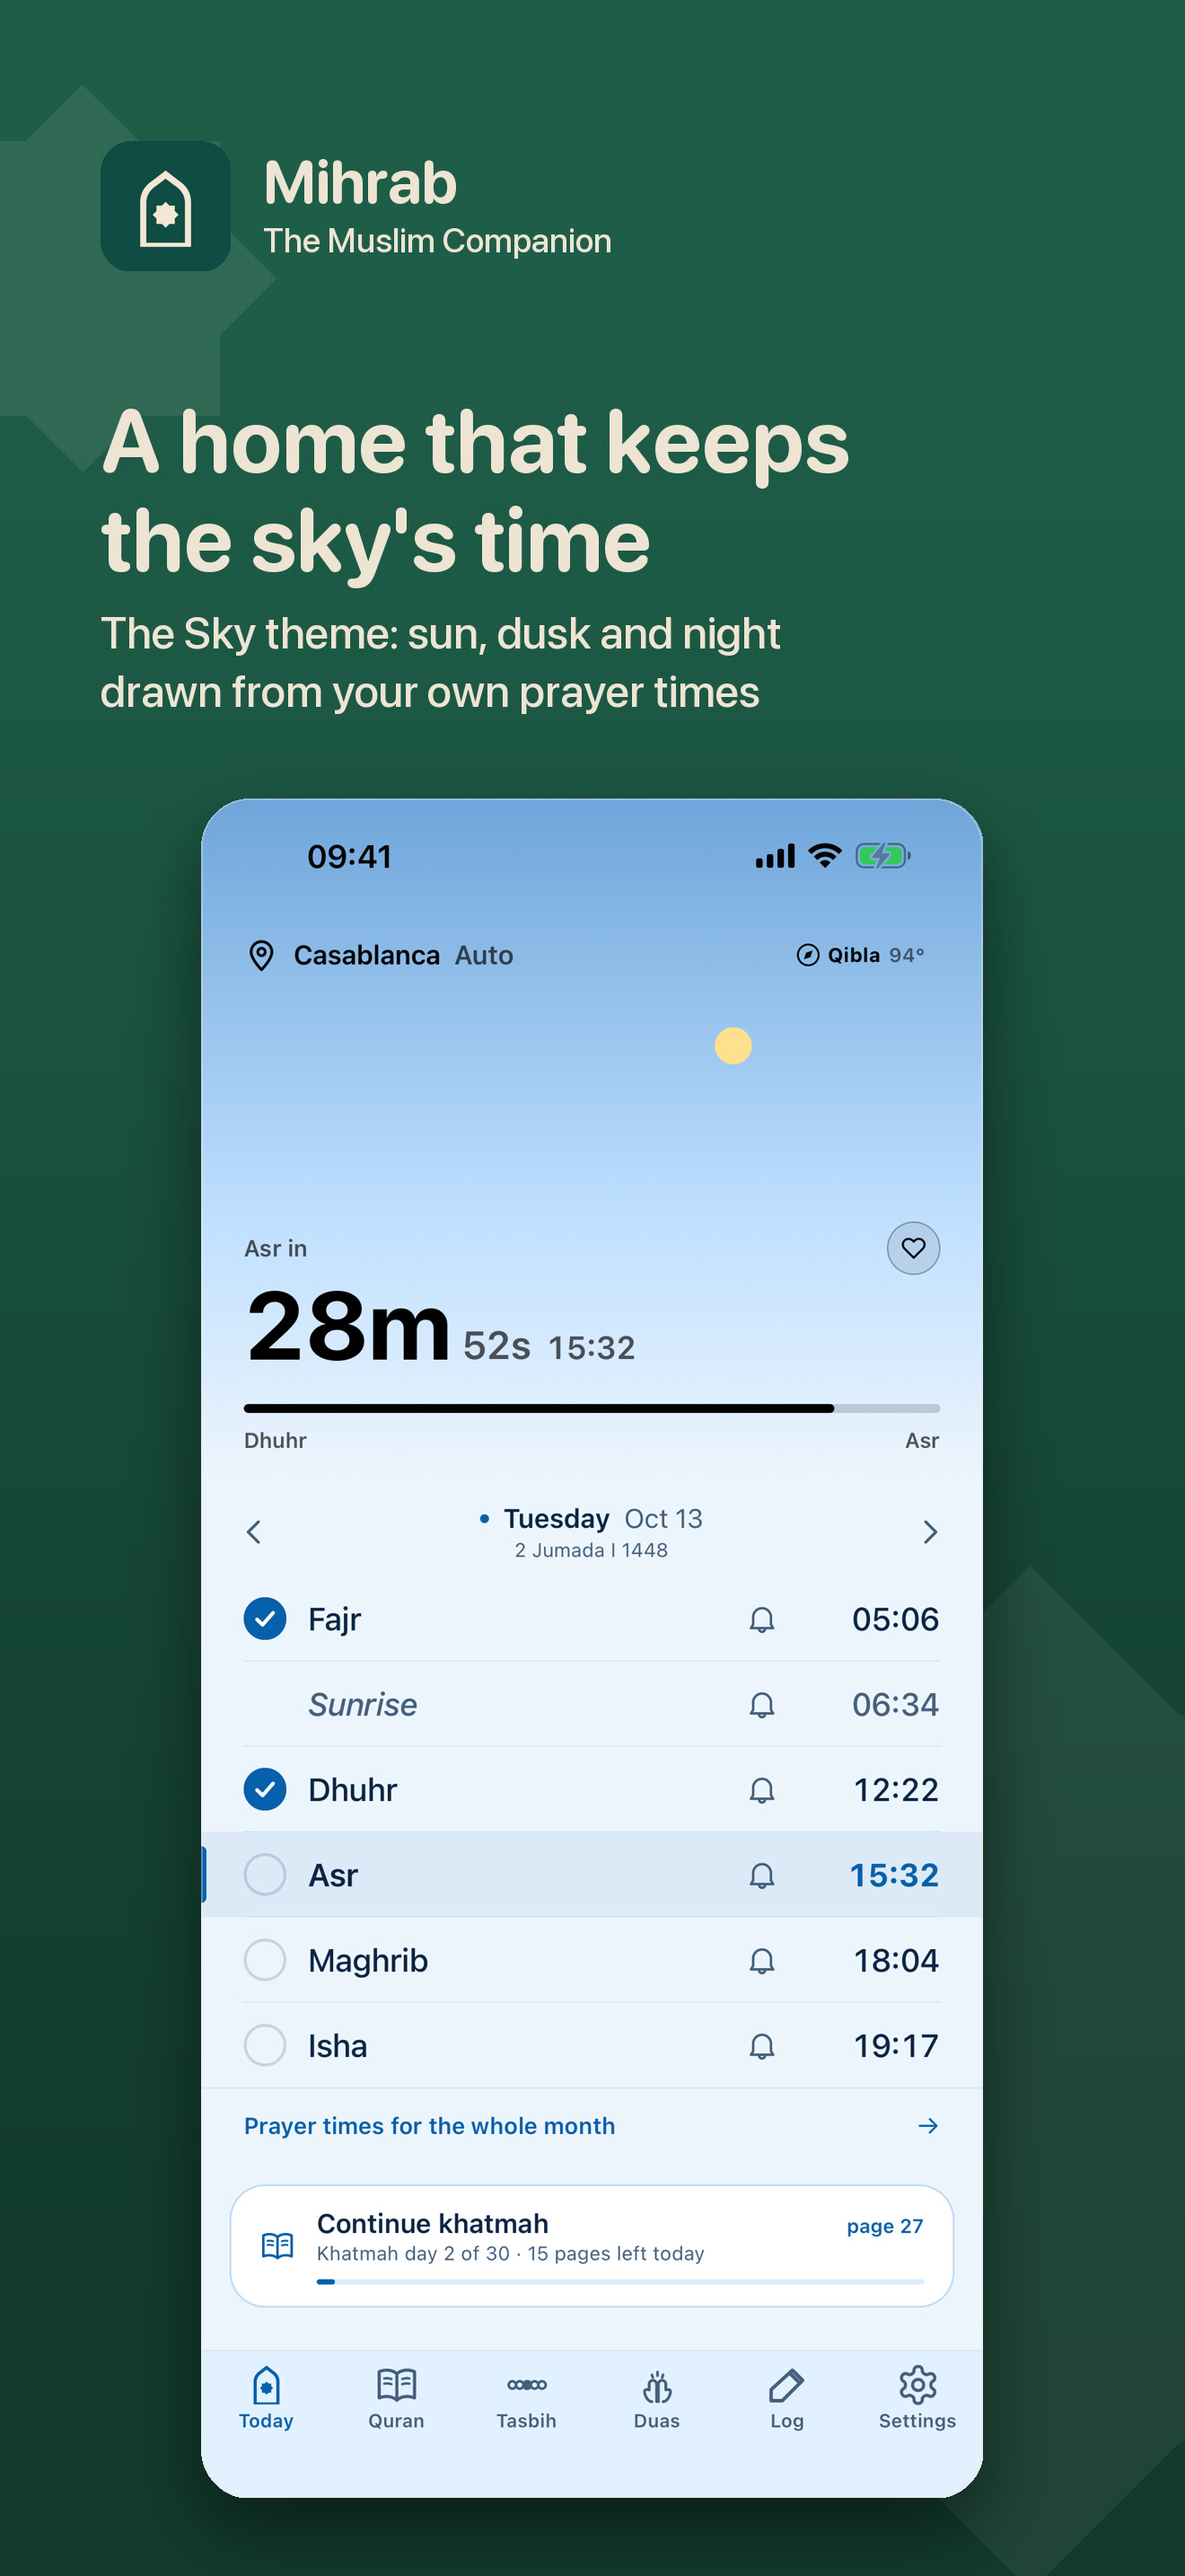
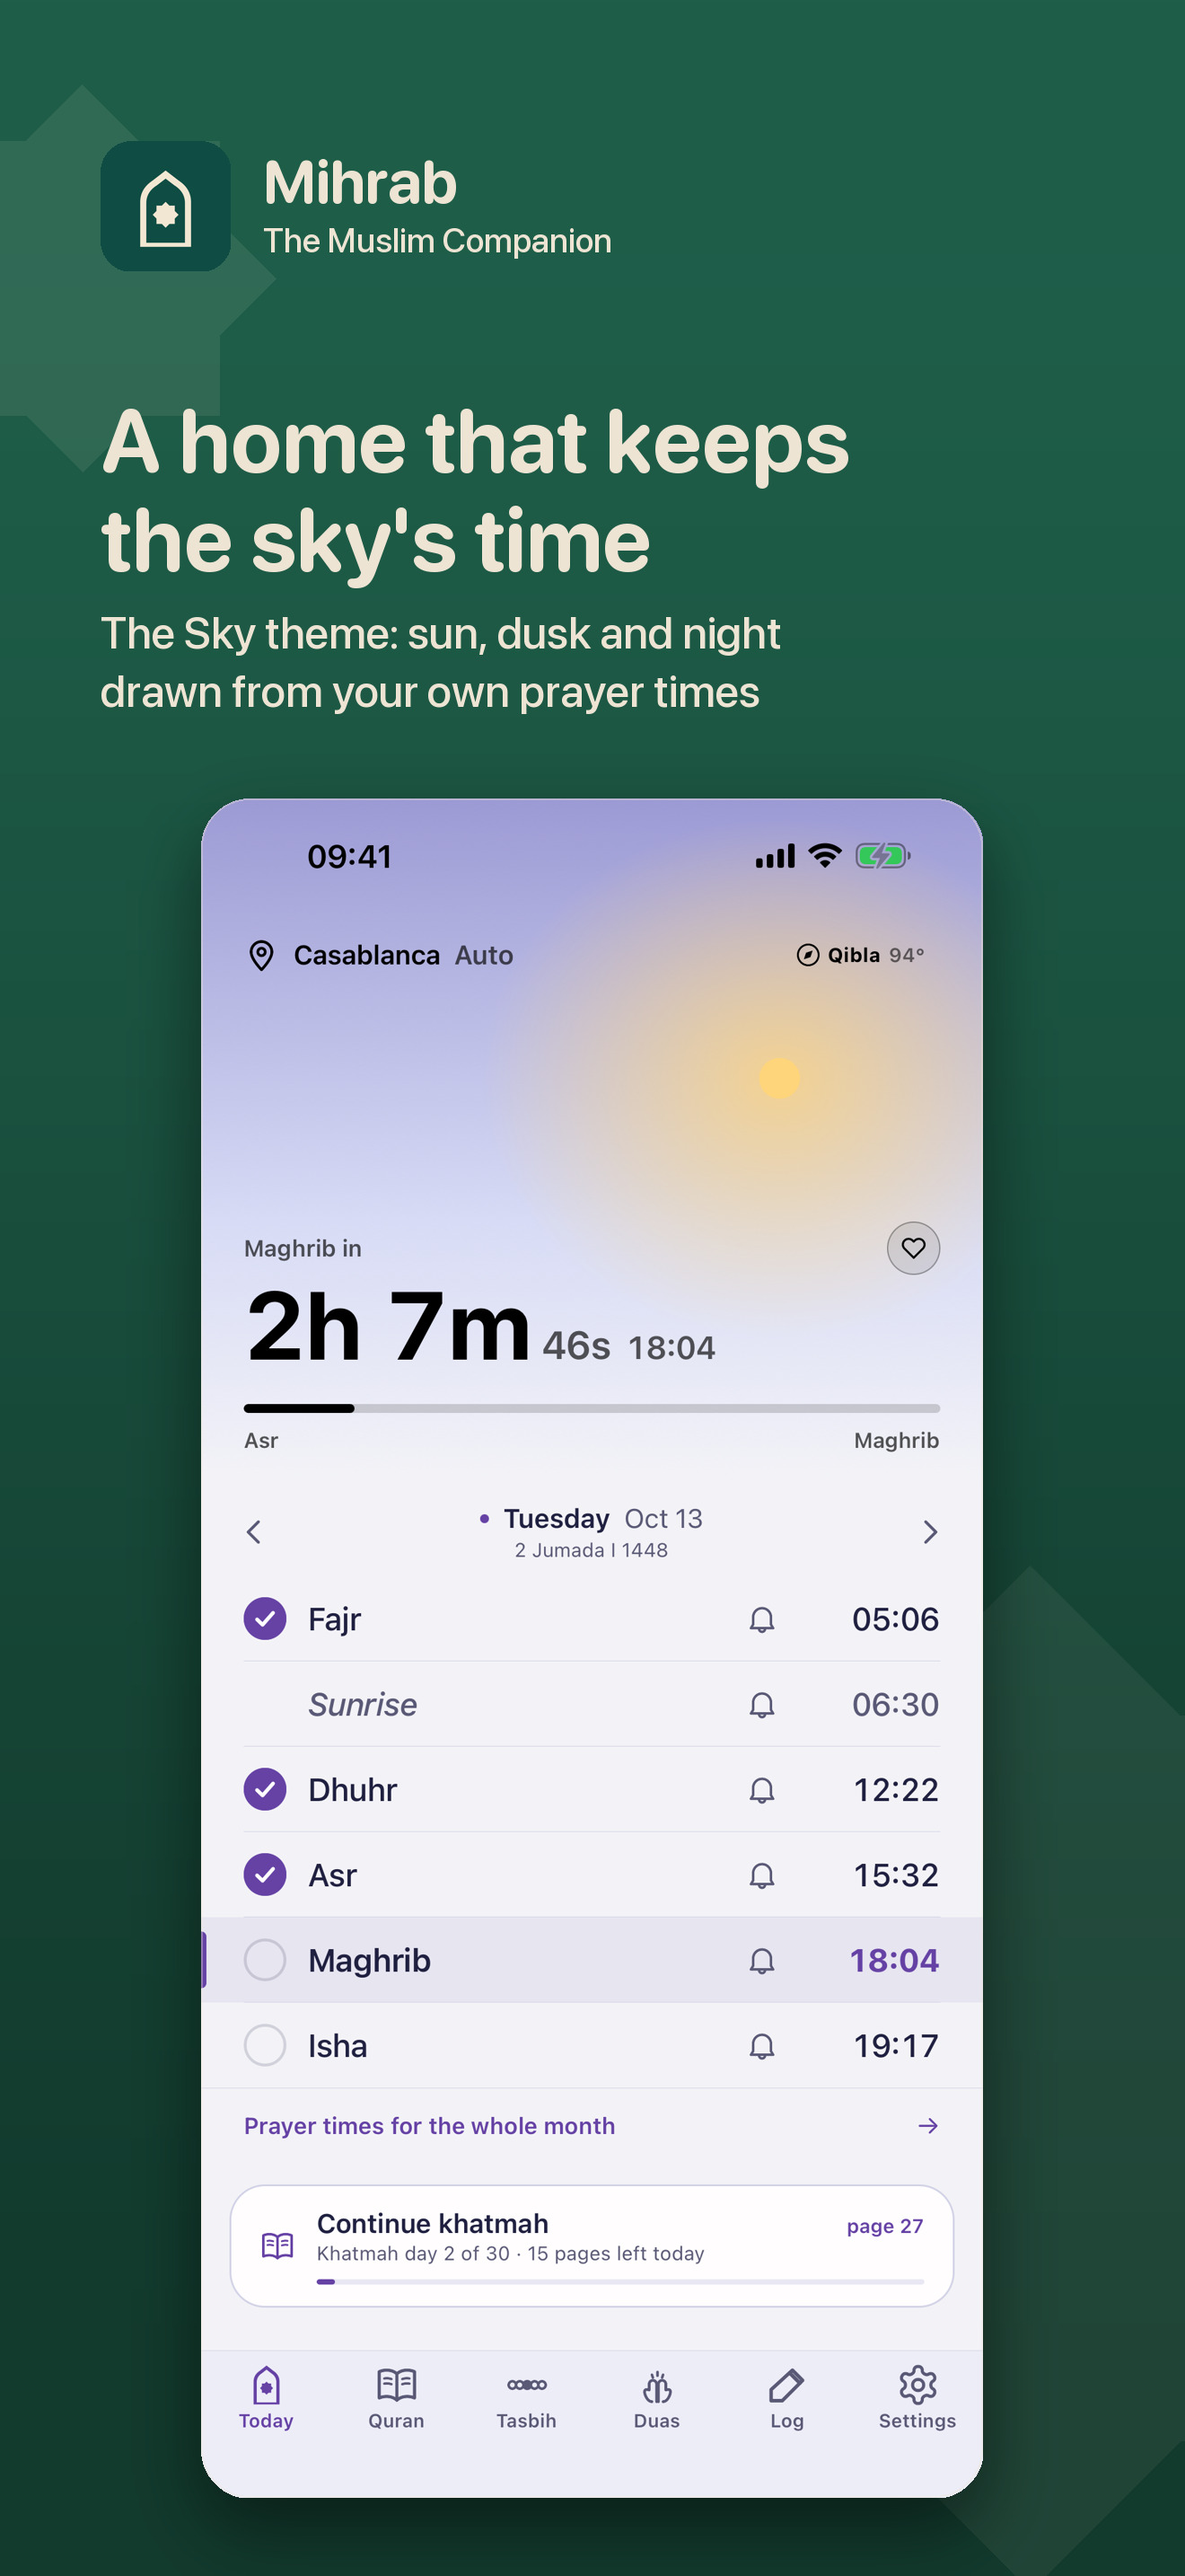
Store sets: the home panels shot again with the sun's glow
Every phone and iPad home panel (01_home and 09_sky on Android phone,
iPhone 6.9" and iPad 13") showed the bare sun of the glow bug fixed in
1c8482ef. Shot again on the fixed build: the Android pair at 09:41
Casablanca as before, the Apple pair in the simulators' afternoon after
Asr. The Android tablet's card was never affected and is unchanged.

diff --git a/branding/SCREENSHOT_GUIDE.md b/branding/SCREENSHOT_GUIDE.md
@@ -158,6 +158,14 @@ one thing that copy does not carry — toggle Prayer alerts off and on in
 Settings → Notifications and allow the prompt, or the Today screen opens
 with a "permission denied" banner.
 
+The same day the phone hero's sun got its glow back (it had been drawn
+only during the launch run — see `glowCy` in HeroSky.tsx), so every
+phone and iPad home panel, `01_home` and `09_sky`, was shot again on
+the fixed build. A home panel with a bare sun is the old bug, not the
+look. The Android tablet's card was never affected and was kept. The
+simulator clock is the host's, so the Apple pair is the afternoon after
+Asr (Fajr, Dhuhr and Asr logged); the Android pair is 09:41.
+
 Captions live in `CAPTIONS` in `build_store.py`; one headline size per set
 (`headline_size`), balanced wrapping (no orphan word), and a landscape-only
 line break where the tablet's text column needs one (`LANDSCAPE_HEADLINES`).
